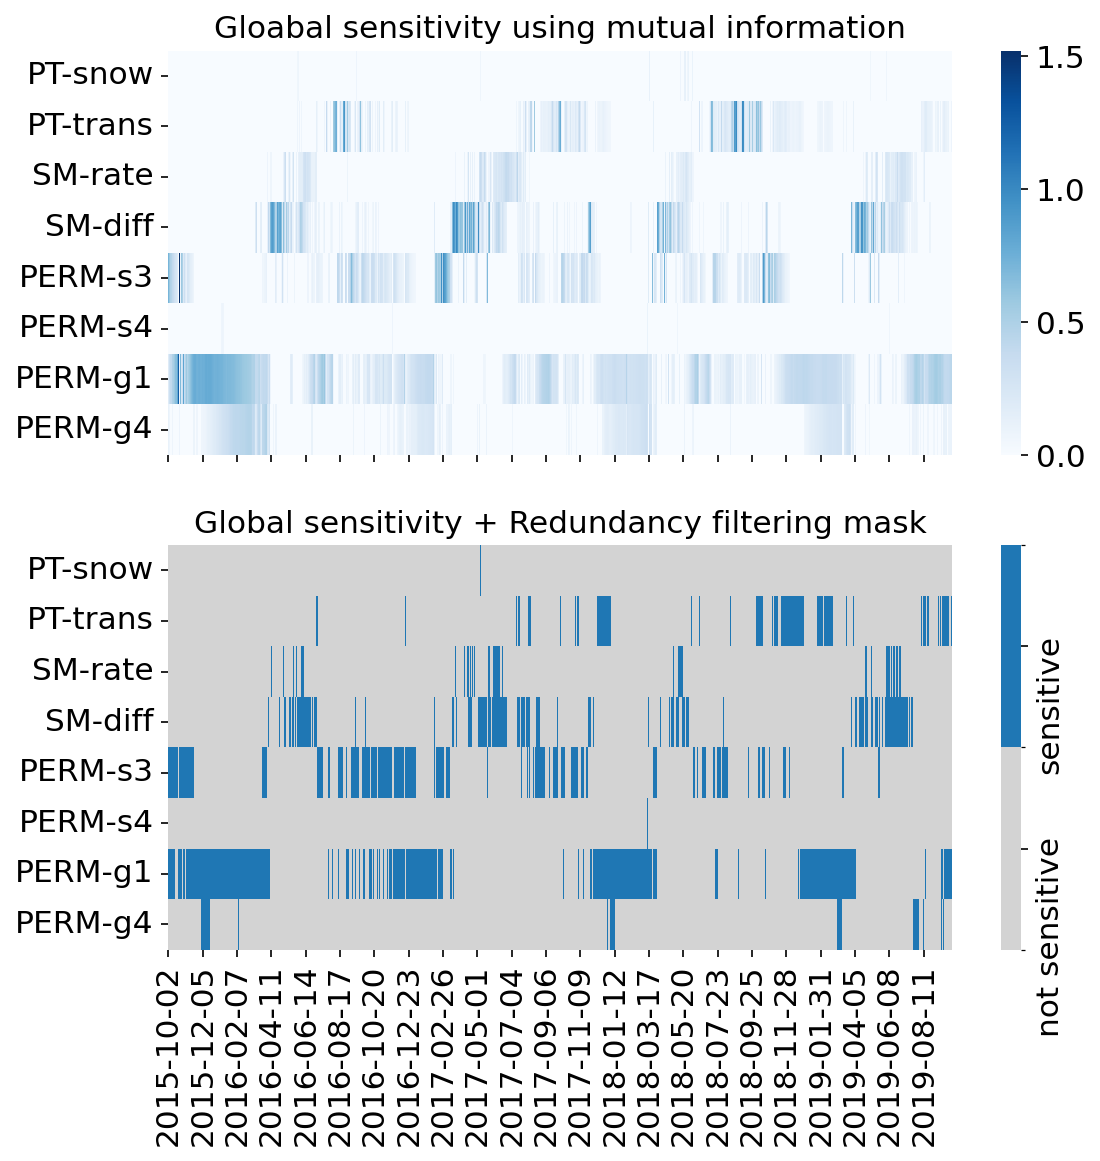
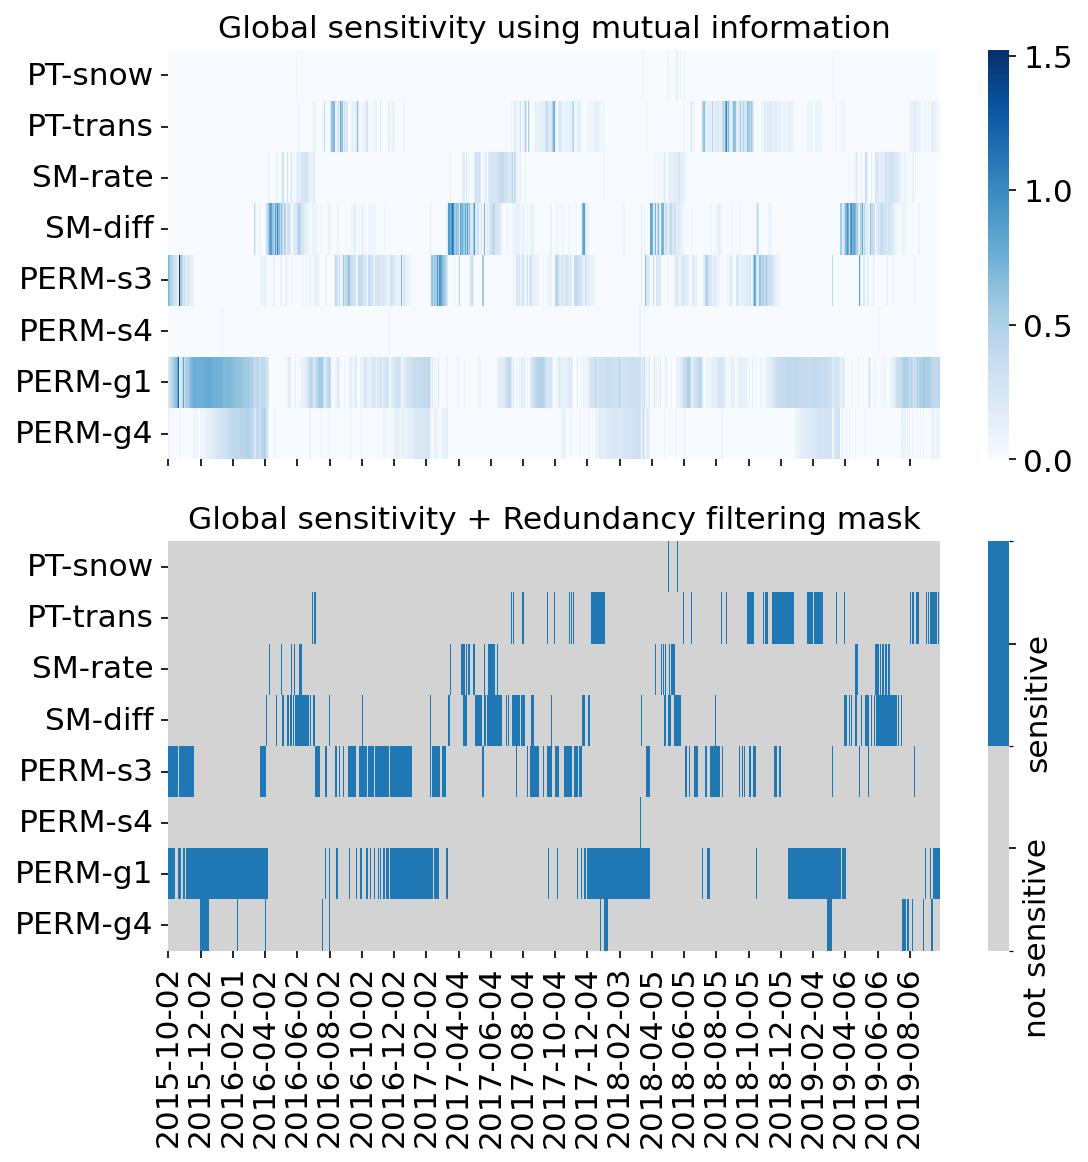
Fixed a few typos and citations in the paper.

diff --git a/paper/paper.md b/paper/paper.md
@@ -1,5 +1,5 @@
 ---
-title: 'KIM: Knowledge-Informed Mapping (KIM) Toolkit'
+title: 'KIM: Knowledge-Informed Mapping Toolkit'
 tags:
   - Python
   - forward and inverse mapping
@@ -40,13 +40,13 @@ Nevertheless, constructing the mapping $f$ that connects all inputs $\mathbf{X}$
 ![Comparison between KIM and the original mapping.\label{fig:kim}](../docs/figures/Figure-KIM.png){ width=80% }
 
 # State of the field
-Several open-source tools address individual pieces of the KIM workflow, but none integrate them into a single, ready-to-use pipeline for constructing uncertainty-aware forward/inverse mappings in Earth science applications. For global sensitivity analysis, `SALib` [@Herman:2017] is the most widely used Python package, offering methods such as Sobol, Morris, and FAST. However, SALib treats sensitivity analysis as a standalone diagnostic step: it does not provide a conditional-independence-based redundancy filter, nor does it feed its results into a subsequent model-training stage. For conditional independence testing, `tigramite` [@Runge:2019] implements the PC algorithm for causal discovery among time series, including a conditional independence test whose residual-based implementation inspired KIM's own (Step 2 of Mathematical approach section). However, tigramite is designed to recover causal graphs, not to construct a predictive mapping, and has no ensemble-learning or uncertainty-quantification component. For the mapping step itself, general-purpose libraries such as `scikit-learn` [@Pedregosa:2011] and deep learning frameworks (`JAX` [@Bradbury:2018], `PyTorch` [@Paszke:2019]) supply the regression and neural-network building blocks, but leave input pruning, ensemble configuration, and per-output uncertainty aggregation entirely to the user.
+Several open-source tools address individual pieces of the KIM workflow, but none integrate them into a single, ready-to-use pipeline for constructing uncertainty-aware forward/inverse mappings in Earth science applications. For global sensitivity analysis, `SALib` [@Herman:2017] is the most widely used Python package, offering methods such as Sobol, Morris, and FAST. However, SALib treats sensitivity analysis as a standalone diagnostic step: it does not provide a conditional-independence-based redundancy filter, nor does it feed its results into a subsequent model-training stage. For conditional independence testing, `tigramite` [@Runge:2019] implements the PC algorithm for causal discovery among time series, including a conditional independence test whose residual-based implementation inspired KIM's own (Step 2 of Mathematical approach section). However, tigramite is designed to recover causal graphs, not to construct a predictive mapping, and has no ensemble-learning or uncertainty-quantification component. For the mapping step itself, general-purpose libraries such as `scikit-learn` [@Pedregosa:2011] and deep learning frameworks (`JAX` [@Frostig:2023], `PyTorch` [@Paszke:2019]) supply the regression and neural-network building blocks, but leave input pruning, ensemble configuration, and per-output uncertainty aggregation entirely to the user.
 
 # Research impact statement
 KIM's contribution is to integrate these three stages, i.e., filtering by global sensitivity analysis, filtering by conditional independence, and ensemble-learning-based mapping with uncertainty quantification, into a single package that operationalizes the methodology validated in @Jiang:2023 and @Wang:2025. Rather than contribute this workflow piecemeal to SALib, tigramite, or scikit-learn, each of which serves a broader purpose, we built a focused package so the full workflow is reproducible end to end from a single dependency and openly shared Jupyter notebook examples. This mapping methodology has already been validated in peer-reviewed scientific research, rather than being a speculative or purely illustrative tool. @Jiang:2023, published in *Hydrology and Earth System Sciences*, applied the knowledge-informed inverse mapping approach that KIM implements to calibrate the Advanced Terrestrial Simulator against streamflow observations at the Coal Creek Watershed, Colorado -- one of the two worked examples distributed with this package. @Wang:2025, published in *Journal of Advances in Modeling Earth Systems*, applies the same approach to estimate wall-flux and collision-kernel scaling parameters in a cloud chamber model, KIM's second worked example.
 
 # Mathematical approach
-Consider a vector of inputs $\mathbf{X} = [X_1,...,X_{N_x}]$ and a vector of outputs $\mathbf{Y} = [Y_1,...,Y_{N_y}]$. The objective is to build up a mapping function $f$ from $\mathbf{X}$ to  $\mathbf{Y}$, such that $f: \mathbb{R}^{N_x} \rightarrow \mathbb{R}^{N_y}$, based on $N_e$ pairs/realizations of $\mathbf{X}$ and $\mathbf{Y}$. Instead of developing a lumped mapping, we aim to develop a separate inverse mapping $f_i$ for each $Y_j \in \mathbf{Y}$ by using a reduced space $\mathbf{X}^S_j \in \mathbf{X}$ that is most relevant to $Y_j$, such that $f_j: \mathbb{R}^{N_{x_j}} \rightarrow \mathbb{R}$ (see examples in @Jiang:2023 and @Wang:2025), which involves the following steps.
+Consider a vector of inputs $\mathbf{X} = [X_1,...,X_{N_x}]$ and a vector of outputs $\mathbf{Y} = [Y_1,...,Y_{N_y}]$. The objective is to build up a mapping function $f$ from $\mathbf{X}$ to  $\mathbf{Y}$, such that $f: \mathbb{R}^{N_x} \rightarrow \mathbb{R}^{N_y}$, based on $N_e$ pairs/realizations of $\mathbf{X}$ and $\mathbf{Y}$. Instead of developing a lumped mapping, we aim to develop a separate inverse mapping $f_j$ for each $Y_j \in \mathbf{Y}$ by using a reduced space $\mathbf{X}^S_j \subseteq \mathbf{X}$ that is most relevant to $Y_j$, such that $f_j: \mathbb{R}^{N_{x_j}} \rightarrow \mathbb{R}$ (see examples in @Jiang:2023 and @Wang:2025), which involves the following steps.
 
 **Step 1: Filtering by global sensitivity analysis.** We first perform a mutual information-based global sensitivity analysis to exclude inputs sharing zero information with $Y_j$ and narrow down a subset $\mathbf{X}^{S_1}_j$ such that:
 
@@ -60,7 +60,7 @@ $$\mathbf{X}^{S}_j = \{X_i: I(X_i;Y_j|\mathbf{X}^{S_1}_j \backslash X_i) \neq 0 
 
 where $\mathbf{X}^{S_1}_j \backslash X_i$ is the remaining set of $\mathbf{X}^{S_1}_j$ by excluding $X_i$; $I(X_i;Y_j|\mathbf{X}^{S_1}_j \backslash X_i)$ is the conditional mutual information between $X_i$ and $Y_j$ conditioning on $\mathbf{X}^{S_1}_j \backslash X_i$. $I(X_i;Y_j|\mathbf{X}^{S_1}_j \backslash X_i) = 0$ indicates that $X_i$ and $Y_j$ are independent given the knowledge of $\mathbf{X}^{S_1}_j \backslash X_i$. Directly conditioning on the full $\mathbf{X}^{S_1}_j \backslash X_i$ faces the curse of dimensionality. To address this issue, we approximate it by conditioning on only the $k$ most sensitive remaining members of $\mathbf{X}^{S_1}_j \backslash X_i$ for increasing $k$ up to a maximum cardinality (i.e., three by default), removing $X_i$ from $\mathbf{X}^S_j$ as soon as one such test finds independence; see the online documentation for the full algorithmic detail.
 
-**Step 3: Uncertainty aware estimation by training ensemble neural networks.** For each parameter $Y_i$, we train an ensemble of fully-connected neural networks by varying the hyperparameters, including the number of hidden layers, the number of hidden neurons, and the learning rate. We split the $N_e$ model realizations into training, validation, and testing dataset. 
+**Step 3: Uncertainty aware estimation by training ensemble neural networks.** For each parameter $Y_j$, we train an ensemble of fully-connected neural networks by varying the hyperparameters, including the number of hidden layers, the number of hidden neurons, and the learning rate. We split the $N_e$ model realizations into training, validation, and testing dataset. 
 When evaluating the estimation on the test dataset, we further quantified the bias and uncertainty of the prediction as:
 \begin{align}
     \text{Bias} &= E(|\mu_w - y|) \notag\\
@@ -80,15 +80,15 @@ KIM's architecture directly mirrors the three-step methodology described above.
 Lastly, KIM accelerates the computational time by adopting parallel computing via the following two ways. First, KIM trains ensemble members of neural networks in parallel by using `joblib.Parallel` [@Joblib] with the `loky` backend. Second, the same technique is applied to the permutation-based shuffle tests in the sensitivity analysis. This trades inter-process overhead for training throughput that scales with available CPU cores without requiring GPU access.
 
 # Examples
-We present two applications of KIM in performing inverse modeling, with Jupyter notebook provided in the repository to guide the package usage. For each case, we developed three types of inverse mappings: (1) the original inverse mapping without knowledge-informed, denoted as $M_0$; (2) the knowledge-informed inverse mapping only using global sensitivity analysis (Step 1), denoted as $M_1$; and (3) the knowledge-informed inverse mapping using both Step 1 and Step 2, denoted as $M_2$. The configurations can be found in the example jupyter notebook.
+We present two applications of KIM in performing inverse modeling, with Jupyter notebook provided in the repository to guide the package usage. For each case, we developed three types of inverse mappings: (1) the original inverse mapping without knowledge-informed filtering, denoted as $M_0$; (2) the knowledge-informed inverse mapping only using global sensitivity analysis (Step 1), denoted as $M_1$; and (3) the knowledge-informed inverse mapping using both Step 1 and Step 2, denoted as $M_2$. The configurations can be found in the example Jupyter notebook.
 
 **Case 1: Calibrating a cloud chamber model.** Cloud chamber model has been widely applied as a virtual reality of a true cloud chamber to study turbulence, clouds, and their interactions [@Thomas2019scaling; @Wang:2024; @Wang2024dual; @Wang2024glaciation; @Wang2025intercomparison]. The objective of this example is to estimate two key parameters, i.e., the scaling coefficients of wall fluxes ($\lambda_w$) and collision processes ($\lambda_c$) using inverse mapping. To that, an ensemble of 513 model runs were generated based on a model set up detailed in @Wang:2025, by varying the values of the two parameters using Sobol sequence. 27 virtual sensors are configured, each of which 'records' multiple variables including flow properties and cloud properties. The preliminary analysis and parameter estimation results are shown in \autoref{fig:cc-1} and \autoref{fig:cc-2}, respectively. 
 
-![Preliminary analysis of cloud chamber ensemble modeling (the inputs $\mathbf{X}$: simulated flow and cloud properties at 27 sensoring locations; $\mathbf{Y}$: two parameters of the cloud chamber model).\label{fig:cc-1}](../docs/figures/im_cloudchamber_1.png){ width=80% }
+![Preliminary analysis of cloud chamber ensemble modeling (the inputs $\mathbf{X}$: simulated flow and cloud properties at 27 sensor locations; $\mathbf{Y}$: two parameters of the cloud chamber model).\label{fig:cc-1}](../docs/figures/im_cloudchamber_1.png){ width=80% }
 
 ![Estimation of the two parameters of the cloud chamber model.\label{fig:cc-2}](../docs/figures/im_cloudchamber_2.png){ width=80% }
 
-**Case 2: Calibrating an integrated hydrological model.** The Advanced Terrestrial Simulator (ATS) is an integrated hydrological models used to simulate hydrological fluxes across a watershed [@Coon:2019]. Here, we calibrated ATS against the streamflow observations at the outlet of Coal Creek watershed, CO, USA. The objective is to estimate eight models parameters categorized into evapotranspiration (ET), snow melting, and subsurface permeability. See @Jiang:2023 for more detailed information. The preliminary analysis and parameter estimation results are shown in \autoref{fig:ats-1} and \autoref{fig:ats-2}, respectively. 
+**Case 2: Calibrating an integrated hydrological model.** The Advanced Terrestrial Simulator (ATS) is an integrated hydrological model used to simulate hydrological fluxes across a watershed [@Coon:2019]. Here, we calibrated ATS against the streamflow observations at the outlet of Coal Creek watershed, CO, USA. The objective is to estimate eight model parameters categorized into evapotranspiration (ET), snow melting, and subsurface permeability. See @Jiang:2023 for more detailed information. The preliminary analysis and parameter estimation results are shown in \autoref{fig:ats-1} and \autoref{fig:ats-2}, respectively. 
 
 ![Preliminary analysis of ATS ensemble modeling (the inputs $\mathbf{X}$: simulated streamflows; $\mathbf{Y}$: eight parameters of the ATS model).\label{fig:ats-1}](../docs/figures/im_ats_1.png){ width=80% }
 

diff --git a/docs/math.md b/docs/math.md
@@ -1,5 +1,5 @@
 # Math behind KIM
-Consider a vector of inputs $\mathbf{X} = [X_1,...,X_{N_x}]$ and a vector of outputs $\mathbf{Y} = [Y_1,...,Y_{N_y}]$. The objective is to build up a mapping function $f$ from $\mathbf{X}$ to  $\mathbf{Y}$, such that $f: \mathbb{R}^{N_x} \rightarrow \mathbb{R}^{N_y}$, based on $N_e$ pairs/realizations of $\mathbf{X}$ and $\mathbf{Y}$. However, it is oftentimes hard to develop an accurate composite $f$, given the limited training data, partially due to the high computational cost of model ensemble simulation. Instead, it would be desirable to develop a separate inverse mapping $f_i$ for each $Y_j \in \mathbf{Y}$ by using a reduced space $\mathbf{X}^S_j \in \mathbf{X}$ that is most relevant to $Y_j$, such that $f_j: \mathbb{R}^{N_{x_j}} \rightarrow \mathbb{R}$ (see examples in {cite:t}`Jiang:2023` and {cite:t}`Wang:2025`. The identification of $\mathbf{X}_j$ for a given $Y_j$ involves a two-step filtering as follows.
+Consider a vector of inputs $\mathbf{X} = [X_1,...,X_{N_x}]$ and a vector of outputs $\mathbf{Y} = [Y_1,...,Y_{N_y}]$. The objective is to build up a mapping function $f$ from $\mathbf{X}$ to  $\mathbf{Y}$, such that $f: \mathbb{R}^{N_x} \rightarrow \mathbb{R}^{N_y}$, based on $N_e$ pairs/realizations of $\mathbf{X}$ and $\mathbf{Y}$. However, it is oftentimes hard to develop an accurate composite $f$, given the limited training data, partially due to the high computational cost of model ensemble simulation. Instead, it would be desirable to develop a separate inverse mapping $f_j$ for each $Y_j \in \mathbf{Y}$ by using a reduced space $\mathbf{X}^S_j \subseteq \mathbf{X}$ that is most relevant to $Y_j$, such that $f_j: \mathbb{R}^{N_{x_j}} \rightarrow \mathbb{R}$ (see examples in {cite:t}`Jiang:2023` and {cite:t}`Wang:2025`. The identification of $\mathbf{X}_j$ for a given $Y_j$ involves a two-step filtering as follows.
 
 **Step 1: Filtering by global sensitivity analysis.** We first perform a mutual information-based global sensitivity analysis to narrow down a subset $\mathbf{X}^{S_1}_j$, each of which shares zero information with $Y_j$ such that:
 
@@ -11,9 +11,9 @@ where $I(X_i;Y_j)$ is the mutual information between $X_i$ and $Y_j$ {cite:p}`Co
 
 $$\mathbf{X}^{S}_j = \{X_i: I(X_i;Y_j|\mathbf{X}^{S_1}_j \backslash X_i) \neq 0 \quad \text{with} \: X_i \in \mathbf{X}^{S_1}_j \},$$
 
-where $\mathbf{X}^{S_1}_j \backslash X_i$ is the remaining set of $\mathbf{X}^{S_1}_j$ by excluding $X_i$; $I(X_i;Y_j|\mathbf{X}^{S_1}_j \backslash X_i)$ is the conditional mutual information between $X_i$ and $Y_j$ conditioning on $\mathbf{X}^{S_1}_j \backslash X_i$. $I(X_i;Y_j|\mathbf{X}^{S_1}_j \backslash X_i) = 0$ indicates that $X_i$ and $Y_j$ are independent given the knowledge of $\mathbf{X}^{S_1}_j \backslash X_i$. However, calculating $\mathbf{X}^{S_1}_j \backslash X_i$. $I(X_i;Y_j|\mathbf{X}^{S_1}_j \backslash X_i)$ faces the curse of dimensionality due to the potential high dimension in $\mathbf{X}^{S_1}_j$. To address this, we leverage the idea of Peter-Clark algorithm for causal inference detection {cite:p}`Spirtes:2001` to evaluate the zeroness of a high-dimensional conditional mutual information by gradually adding conditioning variables. Specifically, we approximated $I(X_i;Y_j|\mathbf{X}^{S_1}_j \backslash X_i)$ via $I(X_i;Y_j|\mathbf{X}^{S_2}_j)$, where $\mathbf{X}^{S_2}_j$ is a subset of $\mathbf{X}^{S_1}_j \backslash X_i$ with a predefined maximum cardinality $K$ (i.e., three by default). Rather than exhausting every subset of a given cardinality, $\mathbf{X}^{S_2}_j$ is chosen greedily as the $k$ members of $\mathbf{X}^{S_1}_j \backslash X_i$ with the highest Step 1 sensitivity, for $k = 1, ..., K$ in increasing order. Candidates $X_i$ are visited from least to most sensitive based on the calculated $I(X_i;X_j)$ in Step 1; at each $k$, we conducted a statistical significance test on assessing $I(X_i;Y_j|\mathbf{X}^{S_2}_j) = 0$, and $X_i$ is removed from $\mathbf{X}^{S}_j$ as soon as one such test is not significant (i.e., $I(X_i;Y_j|\mathbf{X}^{S_2}_j) = 0$), after which the candidate set used to build $\mathbf{X}^{S_2}_j$ for subsequent tests is updated accordingly.
+where $\mathbf{X}^{S_1}_j \backslash X_i$ is the remaining set of $\mathbf{X}^{S_1}_j$ by excluding $X_i$; $I(X_i;Y_j|\mathbf{X}^{S_1}_j \backslash X_i)$ is the conditional mutual information between $X_i$ and $Y_j$ conditioning on $\mathbf{X}^{S_1}_j \backslash X_i$. $I(X_i;Y_j|\mathbf{X}^{S_1}_j \backslash X_i) = 0$ indicates that $X_i$ and $Y_j$ are independent given the knowledge of $\mathbf{X}^{S_1}_j \backslash X_i$. However, calculating $\mathbf{X}^{S_1}_j \backslash X_i$. $I(X_i;Y_j|\mathbf{X}^{S_1}_j \backslash X_i)$ faces the curse of dimensionality due to the potential high dimension in $\mathbf{X}^{S_1}_j$. To address this, we leverage the idea of Peter-Clark algorithm for causal inference detection {cite:p}`Spirtes:2001` to evaluate the zeroness of a high-dimensional conditional mutual information by gradually adding conditioning variables. Specifically, we approximated $I(X_i;Y_j|\mathbf{X}^{S_1}_j \backslash X_i)$ via $I(X_i;Y_j|\mathbf{X}^{S_2}_j)$, where $\mathbf{X}^{S_2}_j$ is a subset of $\mathbf{X}^{S_1}_j \backslash X_i$ with a predefined maximum cardinality $K$ (i.e., three by default). Rather than exhausting every subset of a given cardinality, $\mathbf{X}^{S_2}_j$ is chosen greedily as the $k$ members of $\mathbf{X}^{S_1}_j \backslash X_i$ with the highest Step 1 sensitivity, for $k = 1, ..., K$ in increasing order. Candidates $X_i$ are visited from least to most sensitive based on the calculated $I(X_i;Y_j)$ in Step 1; at each $k$, we conducted a statistical significance test on assessing $I(X_i;Y_j|\mathbf{X}^{S_2}_j) = 0$, and $X_i$ is removed from $\mathbf{X}^{S}_j$ as soon as one such test is not significant (i.e., $I(X_i;Y_j|\mathbf{X}^{S_2}_j) = 0$), after which the candidate set used to build $\mathbf{X}^{S_2}_j$ for subsequent tests is updated accordingly.
 
-**Step 3: Uncertainty aware estimation by training ensemble neural networks.** For each parameter $Y_i$, we train an ensemble of fully-connected neural networks by varying the hyperparameters, including the number of hidden layers, the number of hidden neurons, and the learning rate. We split the $N_e$ model realizations into training, validation, and testing dataset. For each model inference, the ensemble learning enables the predictions through weighted mean $\mu_w$ and weighted standard deviation $\sigma_w$ as:
+**Step 3: Uncertainty aware estimation by training ensemble neural networks.** For each parameter $Y_j$, we train an ensemble of fully-connected neural networks by varying the hyperparameters, including the number of hidden layers, the number of hidden neurons, and the learning rate. We split the $N_e$ model realizations into training, validation, and testing dataset. For each model inference, the ensemble learning enables the predictions through weighted mean $\mu_w$ and weighted standard deviation $\sigma_w$ as:
 
 $$
 \begin{align}

diff --git a/docs/postprocess.md b/docs/postprocess.md
@@ -37,7 +37,7 @@ import matplotlib.pyplot as plt
 fig, ax = plt.subplots(1, 1, figsize=(8, 4))
 plot_sensitivity(data.sensitivity.T)
 ax.set(
-    title='Gloabal sensitivity using mutual information',
+    title='Global sensitivity using mutual information',
     xticklabels=x_labels, yticklabels=y_labels
 );
 
